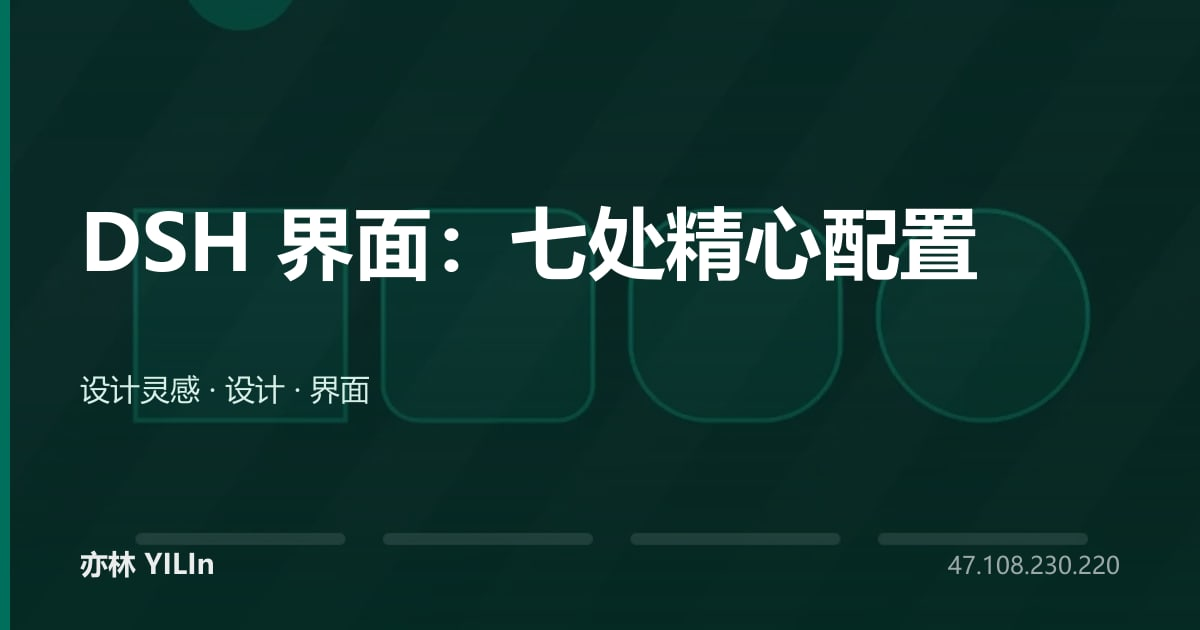
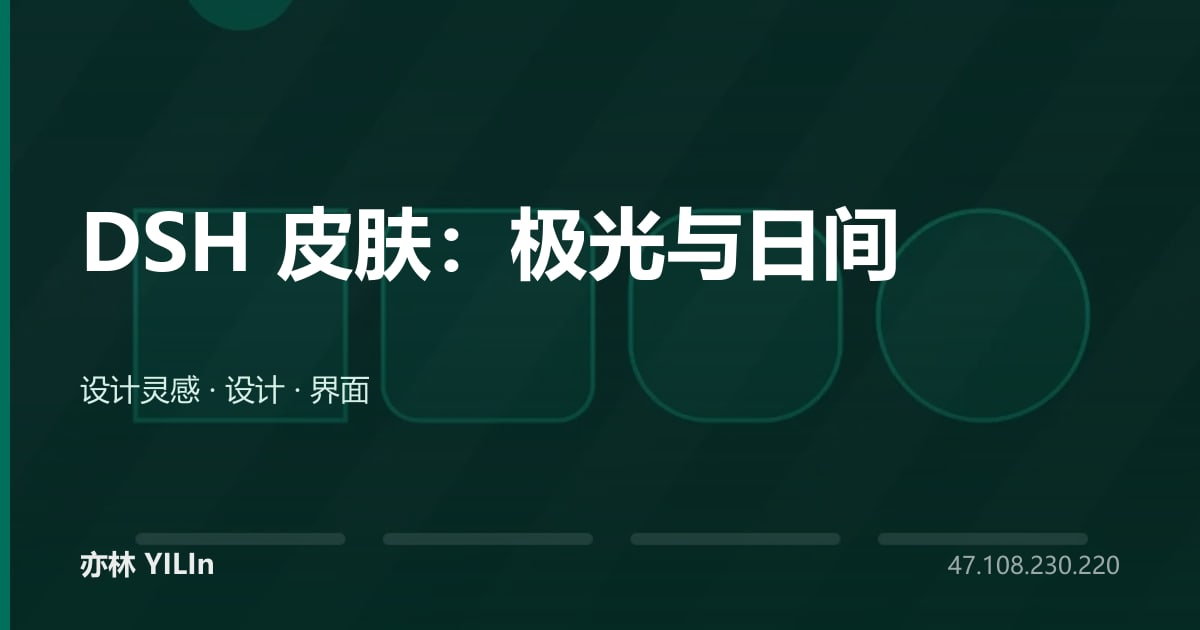
重写 DSH 皮肤文：改成两张整屏大图 + 推荐深色
方向按用户要求整体换掉（原「七处精心配置」细节拆解 → 图为主、细节配文）：
- 结构五节：这是什么 / 深色极光 HUD / 浅色日间玻璃 / 两套共用的东西 / 我推荐深色那套
- 配图 3 张：极光 HUD 整屏、日间玻璃整屏 + 输入卡局部；两张整屏为真实运行界面
- 新增 CSS：文件名含 -full 的图通栏显示（742px），配 rehype-prose-thumbs 的 sizes 同步放档
  修掉「按 640 档下发却拉伸到 742 显示」的糊图问题
- 隐私处理：截图时 CDP 注入遮罩模糊会话内容；账号名遮罩未命中，改由像素填充涂掉
- 版本号 0.1.67 → 0.1.68

Changed region(s): [[0.4008, 0.3016, 0.8325, 0.4524], [0.2158, 0.3317, 0.37, 0.4524]]

diff --git a/src/styles/markdown.css b/src/styles/markdown.css
@@ -205,6 +205,30 @@ body.wallpaper-transparent .custom-markdown {
     }
 }
 
+/* ── 整屏截图（通栏大图）─────────────────────────────────────────────────
+ * 2026-10-30 新增：文章里的「整屏界面截图」需要占满正文栏，否则 640px 宽看不清。
+ *
+ * 为什么需要这条：rehype-prose-thumbs 会给每张正文图写死 width/height 属性
+ * （取的是**最小缩略图档** 640，用来防 CLS），浏览器因此把图渲染成 640px 宽，
+ * 而正文栏有 742px —— 对普通配图无妨，对"整屏展示"就是白丢 100px。
+ *
+ * 触发条件：文件名的 `-full` 后缀（如 01-aurora-full.webp）。
+ * ⚠ 只用 CSS 覆盖**渲染宽度**，不动 width/height 属性 —— 属性仍然防 CLS
+ *   （比例是对的），只是显示宽度交给容器。
+ * ⚠ 不放宽到所有图：普通配图小一点更好读，通栏会显得空。
+ */
+.custom-markdown figure:has(> img[src*="-full."]) img,
+.custom-markdown img[src*="-full."] {
+    width: 100% !important;
+    max-width: 100% !important;
+    height: auto !important;
+}
+
+/* 整屏图的图注也放宽，跟图同宽 */
+.custom-markdown figure:has(> img[src*="-full."]) figcaption {
+    max-width: 100%;
+}
+
 /*剧透效果*/
 .custom-markdown spoiler {
     --_spoiler-mask: var(--primary);

diff --git a/src/plugins/rehype-prose-thumbs.js b/src/plugins/rehype-prose-thumbs.js
@@ -35,7 +35,13 @@ export default function rehypeProseThumbs() {
 			// 正文图实测桌面显示 **640px**、手机 324px。
 			// ⚠ 这里写 640 而不是 660/768：sizes 一旦略大于 640，DPR1 下 need 就 >640，
 			// 引擎只能挑 960 档（9KB）而不是 640 档（5KB）—— 桌面每张白付 4KB、16 张≈64KB。
-			if (!node.properties.sizes) node.properties.sizes = "(min-width: 768px) 640px, 100vw"
+			// ⚠ 文件名带 `-full` 的是「整屏截图」，CSS 让它通栏（约 742px @1440），
+			// sizes 必须跟着放大，否则 DPR1 下浏览器只挑 640 档、把图拉伸到 742 显示 = 糊。
+			// 2026-10-30 实测：写 640px 时 currentSrc 落 -640.webp、naturalWidth 640 而显示 742。
+			const isFullBleed = /-full\.[a-z]+$/i.test(src)
+			if (!node.properties.sizes) {
+				node.properties.sizes = isFullBleed ? "(min-width: 1024px) 742px, 100vw" : "(min-width: 768px) 640px, 100vw"
+			}
 
 			// width/height 换成**实际下发那一档**：三者（width、sizes、srcset 的 w）
 			// 数字互相矛盾时 Chromium 会把 naturalWidth 报成第三种值，

diff --git a/src/content/posts/dsh-interface-design.md b/src/content/posts/dsh-interface-design.md
@@ -1,152 +1,84 @@
 ---
-title: DSH 界面：七处精心配置
+title: DSH 皮肤：极光与日间
 published: 2026-10-30
 updated: 2026-10-30
-description: "深色皮肤 145 个色值、浅色 390 个——差别不在审美，在可控性。这篇讲 DSH 桌面端界面里那些看起来理所当然的细节：为什么圆角要归零、为什么彩环要用 mask、为什么关掉动效反而更容易做错。"
+description: "同一套 DSH 桌面端界面，两套皮肤：深色极光 HUD、浅色日间玻璃。两张整屏图先看外观，再看它们在解决什么，最后说我为什么日常用深色那套。"
 tags: [设计, 界面, DSH]
 category: "设计灵感"
 draft: false
 ---
 
-> 界面上让人「觉得顺」的东西，几乎都不是随手调出来的。它们是先被一个具体的问题逼到墙角，才长成现在这样。下面七处，都是先返工、才定型的。
+> 界面这东西，说一百句「好看」不如直接看一张图。这里有两套：深色极光、浅色日间玻璃。先摆图，再说为什么。
 
-## 先说清楚：这不是一套皮肤，是一次逐项对账
+## 这是什么
 
-2026 年 10 月，我给 DSH 桌面端做了两套皮肤。深色叫极光 HUD，浅色叫日间炫彩。约束是自己定的：**全直角、保留霓虹渐变、不改布局、不改交互逻辑**，只通过 profile 注入样式，一行宿主源码都不碰。
+DSH 是 DeepSeek Harness 的桌面端。它本身有一套官方界面，功能完整、配色克制，但看久了会有一个感觉：**哪里都对，就是没有性格**。
 
-听起来是在做视觉。真正花掉时间的是另一件事：**把界面上每个「本来就该这样」的细节，重新问一遍「为什么是这样」**。因为一旦要覆盖它，你没法靠感觉——你必须先量出它现在是几像素、为什么是几像素、改掉之后别处会不会塌。
+2026 年 10 月，我给它做了两套皮肤。约束一开始就定死了：
 
-这篇文章不讲功能，只讲七件具体的事。每件都对应一个真实踩过的坑。
+- **不改一行宿主源码**，所有改动通过 profile 注入样式
+- **不改布局、不改交互**，只动视觉
+- 全直角、保留渐变霓虹、动效可关
 
-## 一、圆角归零，但圆点必须留着
+结果是两套可以随时切换的完整皮肤。下面两张是**真实界面整屏截图**（不是设计稿、不是合成图），会话内容做了模糊处理。
 
-全直角是硬约束。真正难的不是「把所有圆角写 0」，而是**判断哪些圆角不能写 0**。
+## 深色：极光 HUD
 
-深色皮肤里 `border-radius: 0 !important` 出现 **71 次**，而 `border-radius: 50%` 只保留 3 处：开关滑块、状态圆点、头像。理由不是审美偏好，是功能：
+![极光 HUD 皮肤整屏：深靛黑底、左侧会话树、中间对话区、底部输入卡与状态栏](/images/dsh-ui-design/01-aurora-full.webp)
 
-- 圆角是「容器」的语法，直角告诉眼睛「这是一块结构」
-- 圆形是「状态」的语法，圆点告诉眼睛「这是一个可以变的量」
+> 深色版。注意三处：左侧工作区分组、顶部「对话 / 轨迹 / 上下文 / 编队」页签、底部一行遥测状态条。
 
-把开关也直角化，看起来风格统一了，实际上把「可切换」这个语义抹掉了——用户得靠位置判断那是开关。所以全局归零必须配一份白名单，而白名单的判据是**语义**，不是大小。
+这套要解决的是「**长时间盯屏不累，但不是一片死黑**」。
 
-这条在实现上还翻过一次车：通用圆角规则加上去之后，开关的**药丸容器**被压成了方块，只剩里面那个圆点在动，视觉上完全不像开关。
+底色是深靛黑而不是纯黑（`#070812`），因为纯黑配白字对比过强，看两小时眼睛发酸；深靛黑把对比度压到舒服的区间，又保留了「夜景」的沉。在这之上铺一层极淡的紫青极光——它不抢内容，只在空白处透出来，所以界面看着是「有光的黑」，不是「一块黑布」。
 
-![开关修复前后：左侧药丸被通配圆角压成方块，右侧药丸与圆点还原](/images/dsh-ui-design/01-switch-before-after.webp)
+直角是硬规则：卡片、按钮、输入框、菜单圆角全部归零。只有三样东西保留圆形——开关滑块、状态圆点、头像。因为圆角是「容器」的语法，圆形是「状态」的语法，把开关也做成方块，人就不知道那东西能拨。
 
-> 左：修复前，药丸容器被通配规则压成方块。右：修复后。差别只有一处 `border-radius`，但「这东西能拨」的信息量完全不同。
+HUD 只做骨架，不做皮肤。`//`、编号、刻度尺、角标这些符号只出现在小面积的位置（分区标题、状态栏），正文永远是正常的中文字体。这条踩过坑：早期版本把 HUD 符号铺满，整屏看起来像终端截图，反而不像界面。
 
-## 二、渐变描边不能用 `border-image`
+![输入卡三个药丸：完全权限、+技能、模型选择，与底部遥测条](/images/dsh-ui-design/03-pills.webp)
 
-输入卡上有几个控件需要一圈彩色描边：`+` 按钮、`+ 技能`、模型触发器。第一版用 `border-image` 配四向渐变——看着对，量出来是错的：**四条边的粗细不一致**，因为 `border-image` 是按九宫格切片拉伸，斜向渐变的切片在四条边上的有效厚度不同。
+> 输入卡上的三个药丸是这套里信息密度最高的地方：橙红标权限等级、蓝标技能、深蓝标模型。颜色在这里是分类，不是装饰。
 
-改成 `::before` + `conic-gradient` + `mask`：
+## 浅色：日间玻璃
 
-```css
-/* 1–2px 彩环：内容盒排除法挖空中间，只留一圈 */
-mask: linear-gradient(#000 0 0) content-box, linear-gradient(#000 0 0);
-mask-composite: exclude;
-```
+![日间玻璃皮肤整屏：白底、紫青渐变、浅色玻璃卡、同构的直角骨架](/images/dsh-ui-design/02-polish-full.webp)
 
-要点有三条，都是踩出来的：
+> 浅色版。和深色是同一套骨架，只换了材质：白底 + 冷灰网格 + 紫青渐变描边。
 
-1. **按钮自身边框必须清零**。否则 1px 实线边框叠在彩环内侧，视觉厚度变成 3px，而你以为写的是 2px。
-2. **亚像素会咬人**。26px 高的控件落在半像素位置上时，mask 的顶边会多渲染约 0.5–0.6px，于是顶边看着比底边粗。修法是顶部单独补 1.5px。
-3. **`background-image` 不能插值**。所以聚焦时不能让描边从 `linear-gradient` 切到 `conic-gradient`——那会瞬间跳变。做法是让同一张 conic 图常驻，静止态 `opacity` 压低、动画 `paused`，聚焦时只过渡 `opacity` 并 `running`。
+这套要解决的是「**白天在窗边用深色界面，屏幕像块镜子**」。
 
-![会话行：下方选中态有彩环，上方静置态没有](/images/dsh-ui-design/02-ring-idle.webp)
+它不是把深色反过来那么简单。深色皮肤只有 145 个硬编码色值（其余全走令牌），浅色有 390 个——因为浅色要覆盖的宿主默认样式更多，很多东西没法靠令牌推导，只能逐条钉死。工作量差了一倍多。
 
-> 环只在选中/聚焦时出现。常驻一张图、只动 `opacity`，是为了让「出现」这件事可插值。
+材质走的是「玻璃」而不是「扁平」：卡片是半透明白 + 背景模糊，网格铺在最上层用极淡的冷灰，输入卡和会话行的描边是紫青渐变的一圈细环。所以它亮，但不是那种刺眼的亮——有层次、有厚度。
 
-## 三、「关掉动效」比「加动效」更容易做错
+顶部页签栏是半透明 + 毛玻璃。这条不是审美：**半透明是一种承诺**，你承诺「下面是另一层」，就必须让它看起来像另一层。只降透明度不加模糊，滚动起来是一条脏影子，不是层次。
 
-皮肤有一个动效总闸。第一版是这么写的：
+## 两套共用的东西
 
-```css
-/* 错的做法 */
-html body.ah-reduce-motion * { animation-play-state: paused !important; }
-```
+改了两套之后，有几件事是共同的，也是我认为「精心配置」的真实含义——每个看起来理所当然的细节，背后都有一个具体问题：
 
-逻辑上没错——暂停所有动画。实际效果是：**关掉动效后，设置弹窗和菜单直接消失了**。
+- **焦点环只能有一个**。输入卡里套输入区，全局焦点规则一加就变成「框里套框」。焦点反馈要上移到整张卡。
+- **关掉动效比加动效难**。用「暂停动画」关，元素会永久停在入场动画的第一帧（也就是透明）；正确做法是让动画回落到静态定义。
+- **hover 不做位移**。密集列表里整行抖动比没有反馈更难受，只改颜色和亮度。
+- **装饰要给弹窗让路**。氛围网格和扫描线的层级高于对话框，弹窗上就会蒙一层雾。
 
-原因在于入场动画的 `animation-fill-mode: both`。`both` 会把「第一帧」也应用上，而入场动画的第一帧是 `opacity: 0`。暂停之后，元素永久停在第一帧——也就是永久透明。
+这些细节撑不起一篇文章，但少了任何一条，界面就会在某处「说不上哪里怪」。两套皮肤各 3000–4400 行样式，大半是在处理这类事。
 
-正确的做法是让元素**回落到基础样式**，而不是停在动画的某一帧：
+## 我推荐深色那套
 
-```css
-animation: none !important;
-```
+如果只装一套，**装极光 HUD（深色）**。
 
-这条现在在深色皮肤里出现 **16 次**，每个动画块一份。同时保留 11 处 `@media (prefers-reduced-motion: reduce)` 媒体查询，让系统级偏好也能关。
+理由不是它更好看，而是它**更省事、更耐看**：
 
-经验是：**「暂停」和「取消」是两件事**。暂停保留当前帧，取消回到静态定义。做「可关闭的装饰动效」时，你要的是后者。
+1. **它的令牌化程度更高**。深色只有 145 个硬编码色值，其余全走 `--ah-*` / `--dsw-*` 令牌。宿主升级、类名变化时，改令牌就能跟上；浅色那 390 个硬编码色值，每一条都得单独核。
+2. **它对内容干扰更小**。深色底上紫青只是点缀，正文区域几乎是纯文字与留白；浅色的渐变与玻璃在白底上更抢眼，长时间读长文会分心。
+3. **它是照着「一个人长时间盯着工作」设计的**。极光是低亮度氛围，不是满屏彩色；动效幅度很小，且有总闸可关。浅色更适合「白天快速看一眼」，不适合连续用几小时。
 
-## 四、焦点环只能有一个
+**怎么切**：界面左下「更多」→ 皮肤，选「极光 HUD」，确认后界面会重启一次（约 1 秒）。也可以直接改 `localStorage['dsh-active-skin']` 为 `aurora` 再刷新。
 
-`:focus-visible` 写起来一行，铺开之后问题很具体：输入卡片本身是一个大盒子，里面还有一层 `contenteditable` 的输入区。全局焦点规则一加，就变成「输入框里套着一层输入框」——外面一圈、里面一圈，两个焦点环互相打架。
-
-处理方式是**把焦点反馈上移一层**：卡内 `[role="textbox"]` 的 `outline` 清零，焦点态只留整张卡的描边。插件市场的搜索框同理——外层 wrapper 已经有边框，内层 `<input>` 就不要再吃全局焦点环；而且在日间皮肤里，还有一条 `[class*="searchInput"] input:focus-visible` 的提权规则会再次命中，所以那条也得排除掉。
-
-同一族的问题还有两个：
-
-- **hover 不该有位移**。文字按钮 hover 时上移 1–2px，在密集列表里就是整行在抖。现在 hover 只改颜色和亮度。
-- **按压只缩 1.5% 或提亮**，不做位移。会话行、项目行这些 `role="treeitem"`、右侧标签 `role="tab"` 也不是 `<button>`，但同样要覆盖——不然一屏里有一半元素点了没反馈。
-
-判据很朴素：**同一时刻，用户的眼睛只能盯住一个焦点环**。第二个出现的时候，就是在告诉他「你刚才点的东西」和「你现在要输入的东西」不是一回事——但通常它们就是同一件事。
-
-## 五、半透明页签栏必须配模糊
-
-有一类问题只在滚动时暴露：内容滚到顶部页签栏下面，透过半透明底色显出一条脏影子。原因是页签栏写了 `background: rgba(..., .78)`，但**没有背景模糊**——半透明不等于毛玻璃，它只是把下面的内容按透明度混进来。
-
-补上 `backdrop-filter: blur(12px) saturate(1.2)`（浅色 14px）之后，滚动的内容变成真正的「背后」而不是「透过来的脏色」。
-
-这条的教训是：**半透明是一种承诺**。你承诺「下面是另一层」，就必须让它看起来像另一层。只降透明度不加模糊，得到的是「颜色不对」而不是「层次」。
-
-## 六、装饰层要给弹窗让路
-
-皮肤在窗口上铺了一层网格和一条扫描线，用来做 HUD 气氛。问题是它们的 `z-index` 比 dialog 高，于是**弹窗上永远蒙着一层雾状纹理**，标题发虚。
-
-修法用了一条 `:has()`：
-
-```css
-body:has([role="dialog"][aria-modal="true"]) #ah-frame,
-body:has([role="dialog"][aria-modal="true"]) #ah-scan {
-  opacity: 0;
-  animation: none !important;
-}
-```
-
-只要屏幕上有模态弹窗，装饰层就整体退场。这比调 `z-index` 更稳——调层级只是在争谁在上面，而「有弹窗时气氛让位」本来就是这条装饰的边界。
-
-与之配套的还有一条：文本对比度。宿主给的占位符色在深色底上只有 **1.9:1**，几乎看不见。深色调到 `#8EA6BE`，浅色调到 `#5F7189`。装饰可以省，可读性不能。
-
-## 七、三个药丸：写下去不生效的那些规则
-
-三个药丸按钮（权限、计划模式、模型）是输入卡上信息密度最高的地方。它们要同时表达三件事：当前状态、可点击、可展开。
-
-![输入卡的三个药丸：完全权限、计划模式、模型触发器](/images/dsh-ui-design/03-pill-shine.webp)
-
-> 三个药丸、三种语义：橙红是权限等级，蓝是模式，深蓝是模型。颜色不是装饰，是分类。
-
-这里的坑是**特异性**。皮肤自己写了 `[data-composer-card] button[class$="_primary"]:hover` 带 `!important`，特异性 0-4-1。后来想给按钮加一层扫光，新规则写下去**完全不生效**——因为特异性不够。解法不是再加 `!important`（两边都有，等于没加），而是带同样的 `[data-composer-card]` 前缀把特异性压到 0-4-3。
-
-彩环本身的结构也值得记一下，因为它决定了后面能怎么改：`inset: -1px` 让它比按钮外扩 1px 露在边缘，`padding: 1px` 配合 `content-box` 把中间挖空，渐变里还特意留了两段 `rgba(..., 0)` 的透明区间——所以环不是「一整圈均匀的彩色」，而是**转起来时有一段亮、一段暗**，转一圈 4.2 秒。改这层的时候如果顺手加了 `overflow: hidden`，外扩的 1px 就被裁掉了，环会变成贴边的一条细线。
-
-更隐蔽的是扫光的载体选择。彩环已经挂在 `::after` 上，按钮又必须 `overflow: visible` 才能露出向外扩 2px 的环。所以扫光只能走 `::before` 的背景位移，一旦为了「裁掉溢出」加上 `overflow: hidden`，彩环就被切掉了——**一个为了修 A 加的属性，悄悄弄坏了 B**。
-
-这些都不是设计问题，但它们是「精心配置」的真实成本：**样式表里 1003 个 `!important`、77 处 `:not(#ah-never)` 特异性配重**，全是为了在别人的成品上做叠加而不失控。
-
-## 所以「精心配置」到底指什么
-
-回头看这七件事，没有一件是「调好看」。它们的共同结构是：
-
-1. **先找到那个默认值为什么存在**——圆角、半透明、暂停动画，每一个都不是随便写的
-2. **再判断这个理由在你的场景里还成不成立**——开关的圆形是语义，不能归零；页签的半透明是承诺，必须补模糊
-3. **最后用可测量的方式确认**——边框量厚度、对比度量比值、动效看 `getAnimations()`，不靠肉眼
-
-一个数字可以收尾：深色皮肤只有 **145 个色值**（其余全走 `--ah-*` 与 `--dsw-*` 令牌），浅色皮肤有 **390 个**。不是我给浅色偷懒——是因为浅色要覆盖的宿主默认样式更多，很多东西没法靠令牌推导，只能逐条钉死。
-
-**令牌多的地方能改一处影响全站，硬编码多的地方只能一处一处对账。** 界面之所以看起来理所当然，是因为对账已经做完了。
+两套皮肤都只在 DSH 桌面端有效——类名和令牌绑定宿主版本，别往别的项目里搬。
 
 ---
 
-> 本文所有数值都来自皮肤源码实测：深色 `composed.css` 4427 行、浅色 `day.css` 3472 行，`!important` 计数 1003 / 1020，`:not(#ah-never)` 计数 77 / 183，`@media (prefers-reduced-motion)` 11 / 8 处。截图取自皮肤开发期的诊断记录，不是成品宣传图。
+> 截图取自真实运行中的界面（1280×821 窗口、DPR 1.575）。会话内容已模糊，账号名与皮肤版本号已涂掉；除此之外没有做任何修饰——配色、间距、控件全部是实际渲染结果。点击任一图可看原尺寸大图。
